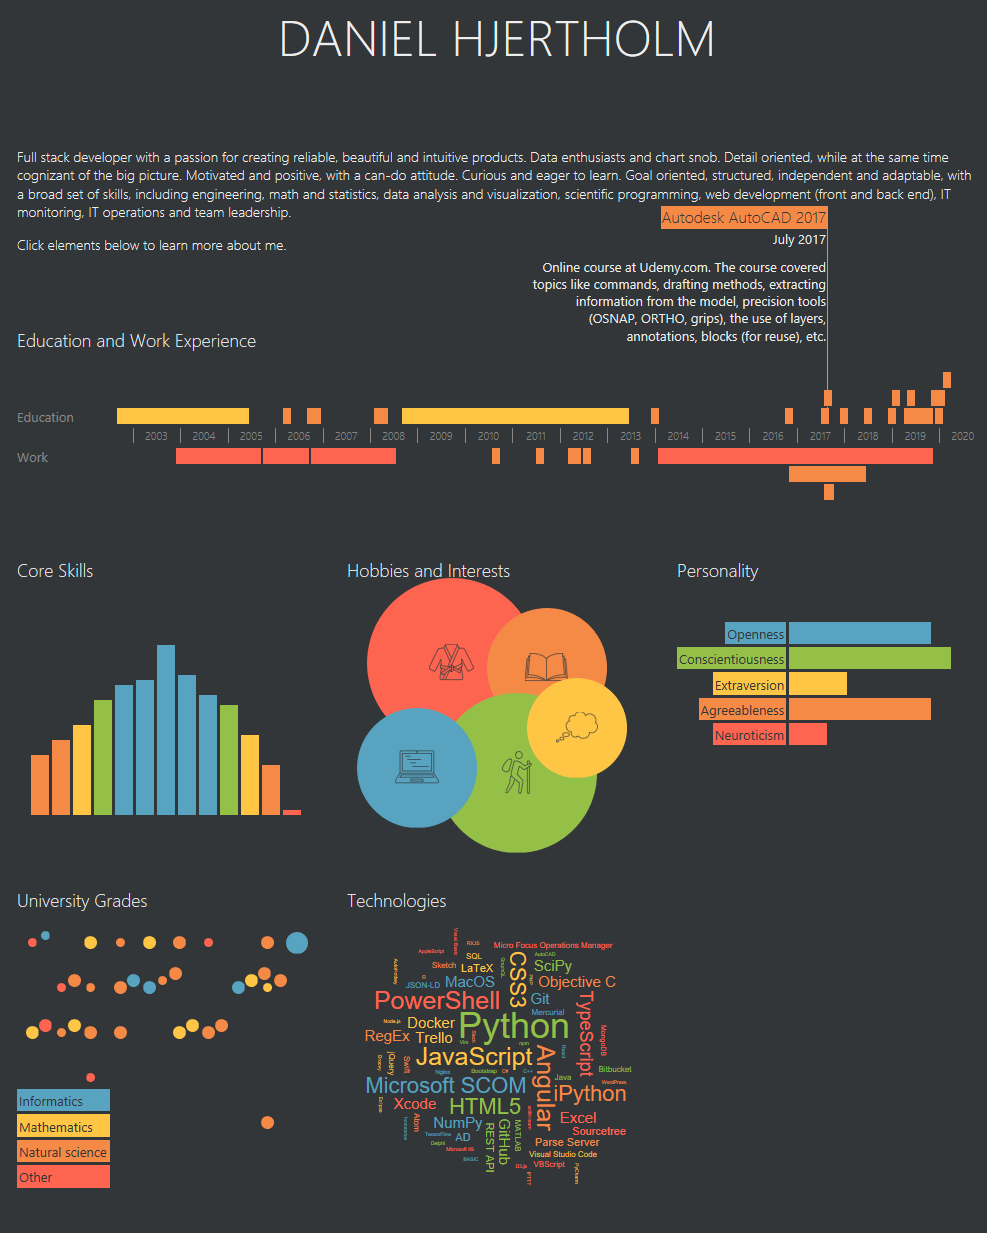
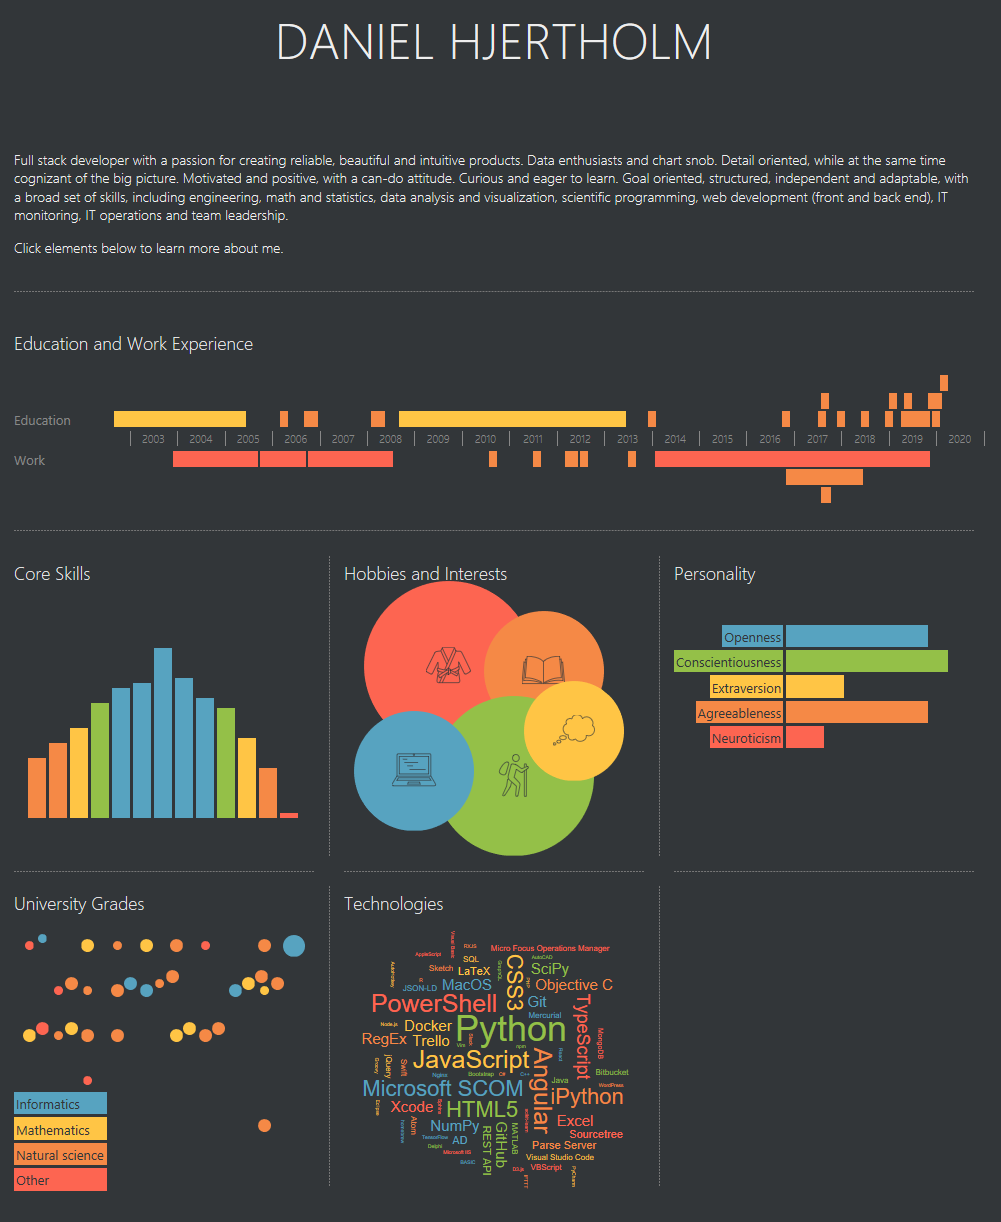
Adjustments

diff --git a/src/app/timeline/timeline.component.ts b/src/app/timeline/timeline.component.ts
@@ -175,7 +175,7 @@ export class TimelineComponent implements OnInit {
         'education',
         false,
         'Angular 8 - The Complete Guide',
-        'October 2019 - February 2020',
+        'October 2019 - present',
         'Online course at Udemy.com. Not yet completed.',
         '2019.10',
         '2020.02'
@@ -266,10 +266,10 @@ export class TimelineComponent implements OnInit {
         'work',
         true,
         'Special Consultant at Sykehuspartner HF',
-        'January 2014 - November 2019',
+        'January 2014 - present',
         '2014 - 2018: IT Operations Manager at the Operations Bridge. Responsible for event management, as well as leading the resolution of major incidents by managing the team of technical experts that are mobilized to resolve the issue.<br /><br />2018 - present: Developer in the monitoring department, developing both infrastructure monitoring and end user monitoring (EUM) through scripts that emulate users of our IT services.',
         '2014.01',
-        '2019.11'
+        '2020.01'
       ),
       new TimelineEntry(
         'work',

diff --git a/src/app/technologies/technologies.component.ts b/src/app/technologies/technologies.component.ts
@@ -1,4 +1,4 @@
-import { Component, OnInit } from '@angular/core';
+import { Component, OnInit, ViewChild, ElementRef } from '@angular/core';
 import { PrngService } from '../prng.service';
 
 declare const d3: any;
@@ -9,6 +9,7 @@ declare const d3: any;
   styleUrls: ['./technologies.component.css']
 })
 export class TechnologiesComponent implements OnInit {
+  @ViewChild('cloud', {static: true}) cloud: ElementRef;
 
   constructor(private prngService: PrngService) {}
 
@@ -135,6 +136,11 @@ export class TechnologiesComponent implements OnInit {
           .attr('text-anchor', 'middle')
           .attr('transform', d => 'translate(' + [d.x, d.y] + ')rotate(' + d.rotate + ')')
           .text(d => d.text);
+      // const textElems = this.cloud.nativeElement.querySelectorAll('text');
+      // [].forEach.call(textElems, (elem) => {
+      //   console.log(elem);
+      //   elem.style.transform = 'scale(1.2)';
+      // });
     };
 
     d3.layout.cloud()

diff --git a/src/app/skillprofile/skillprofile.component.css b/src/app/skillprofile/skillprofile.component.css
@@ -1,14 +1,19 @@
 .container {
-  display: flex;
+  display: block;
+  position: absolute;
+  top: 0;
+  left: 0;
+  display: grid;
+  grid-template-columns: auto;
+  grid-template-rows: auto max-content 20px;
   width: 100%;
   height: 100%;
-  justify-content: center;
-  align-items: center;
 }
 
 .skills-wrapper {
   display: inline-block;
   width: fit-content;
+  margin: auto;
 }
 
 span {

diff --git a/src/app/personality/personality.component.css b/src/app/personality/personality.component.css
@@ -11,7 +11,7 @@ span {
 .container {
   display: grid;
   grid-template-columns: max-content auto;
-  grid-template-rows: 40px max-content max-content max-content max-content max-content auto;
+  grid-template-rows: 70px max-content max-content max-content max-content max-content auto;
   height: 100%;
   width: 100%;
 }

diff --git a/src/app/skillprofile/skillprofile.component.html b/src/app/skillprofile/skillprofile.component.html
@@ -1,6 +1,7 @@
 <p class="component-title">Core Skills</p>
 
 <div class="container">
+  <div></div>
   <div class="skills-wrapper">
     <div
       *ngFor="let skill of skills;let i = index;"
@@ -12,4 +13,5 @@
       [attr.popoverDescription]="descriptionForSkill(skill)">
     </div>
   </div>
+  <div></div>
 </div>

diff --git a/src/app/technologies/technologies.component.html b/src/app/technologies/technologies.component.html
@@ -1,3 +1,3 @@
 <p class="component-title">Technologies</p>
 
-<div class="cloud"></div>
+<div class="cloud" #cloud></div>
